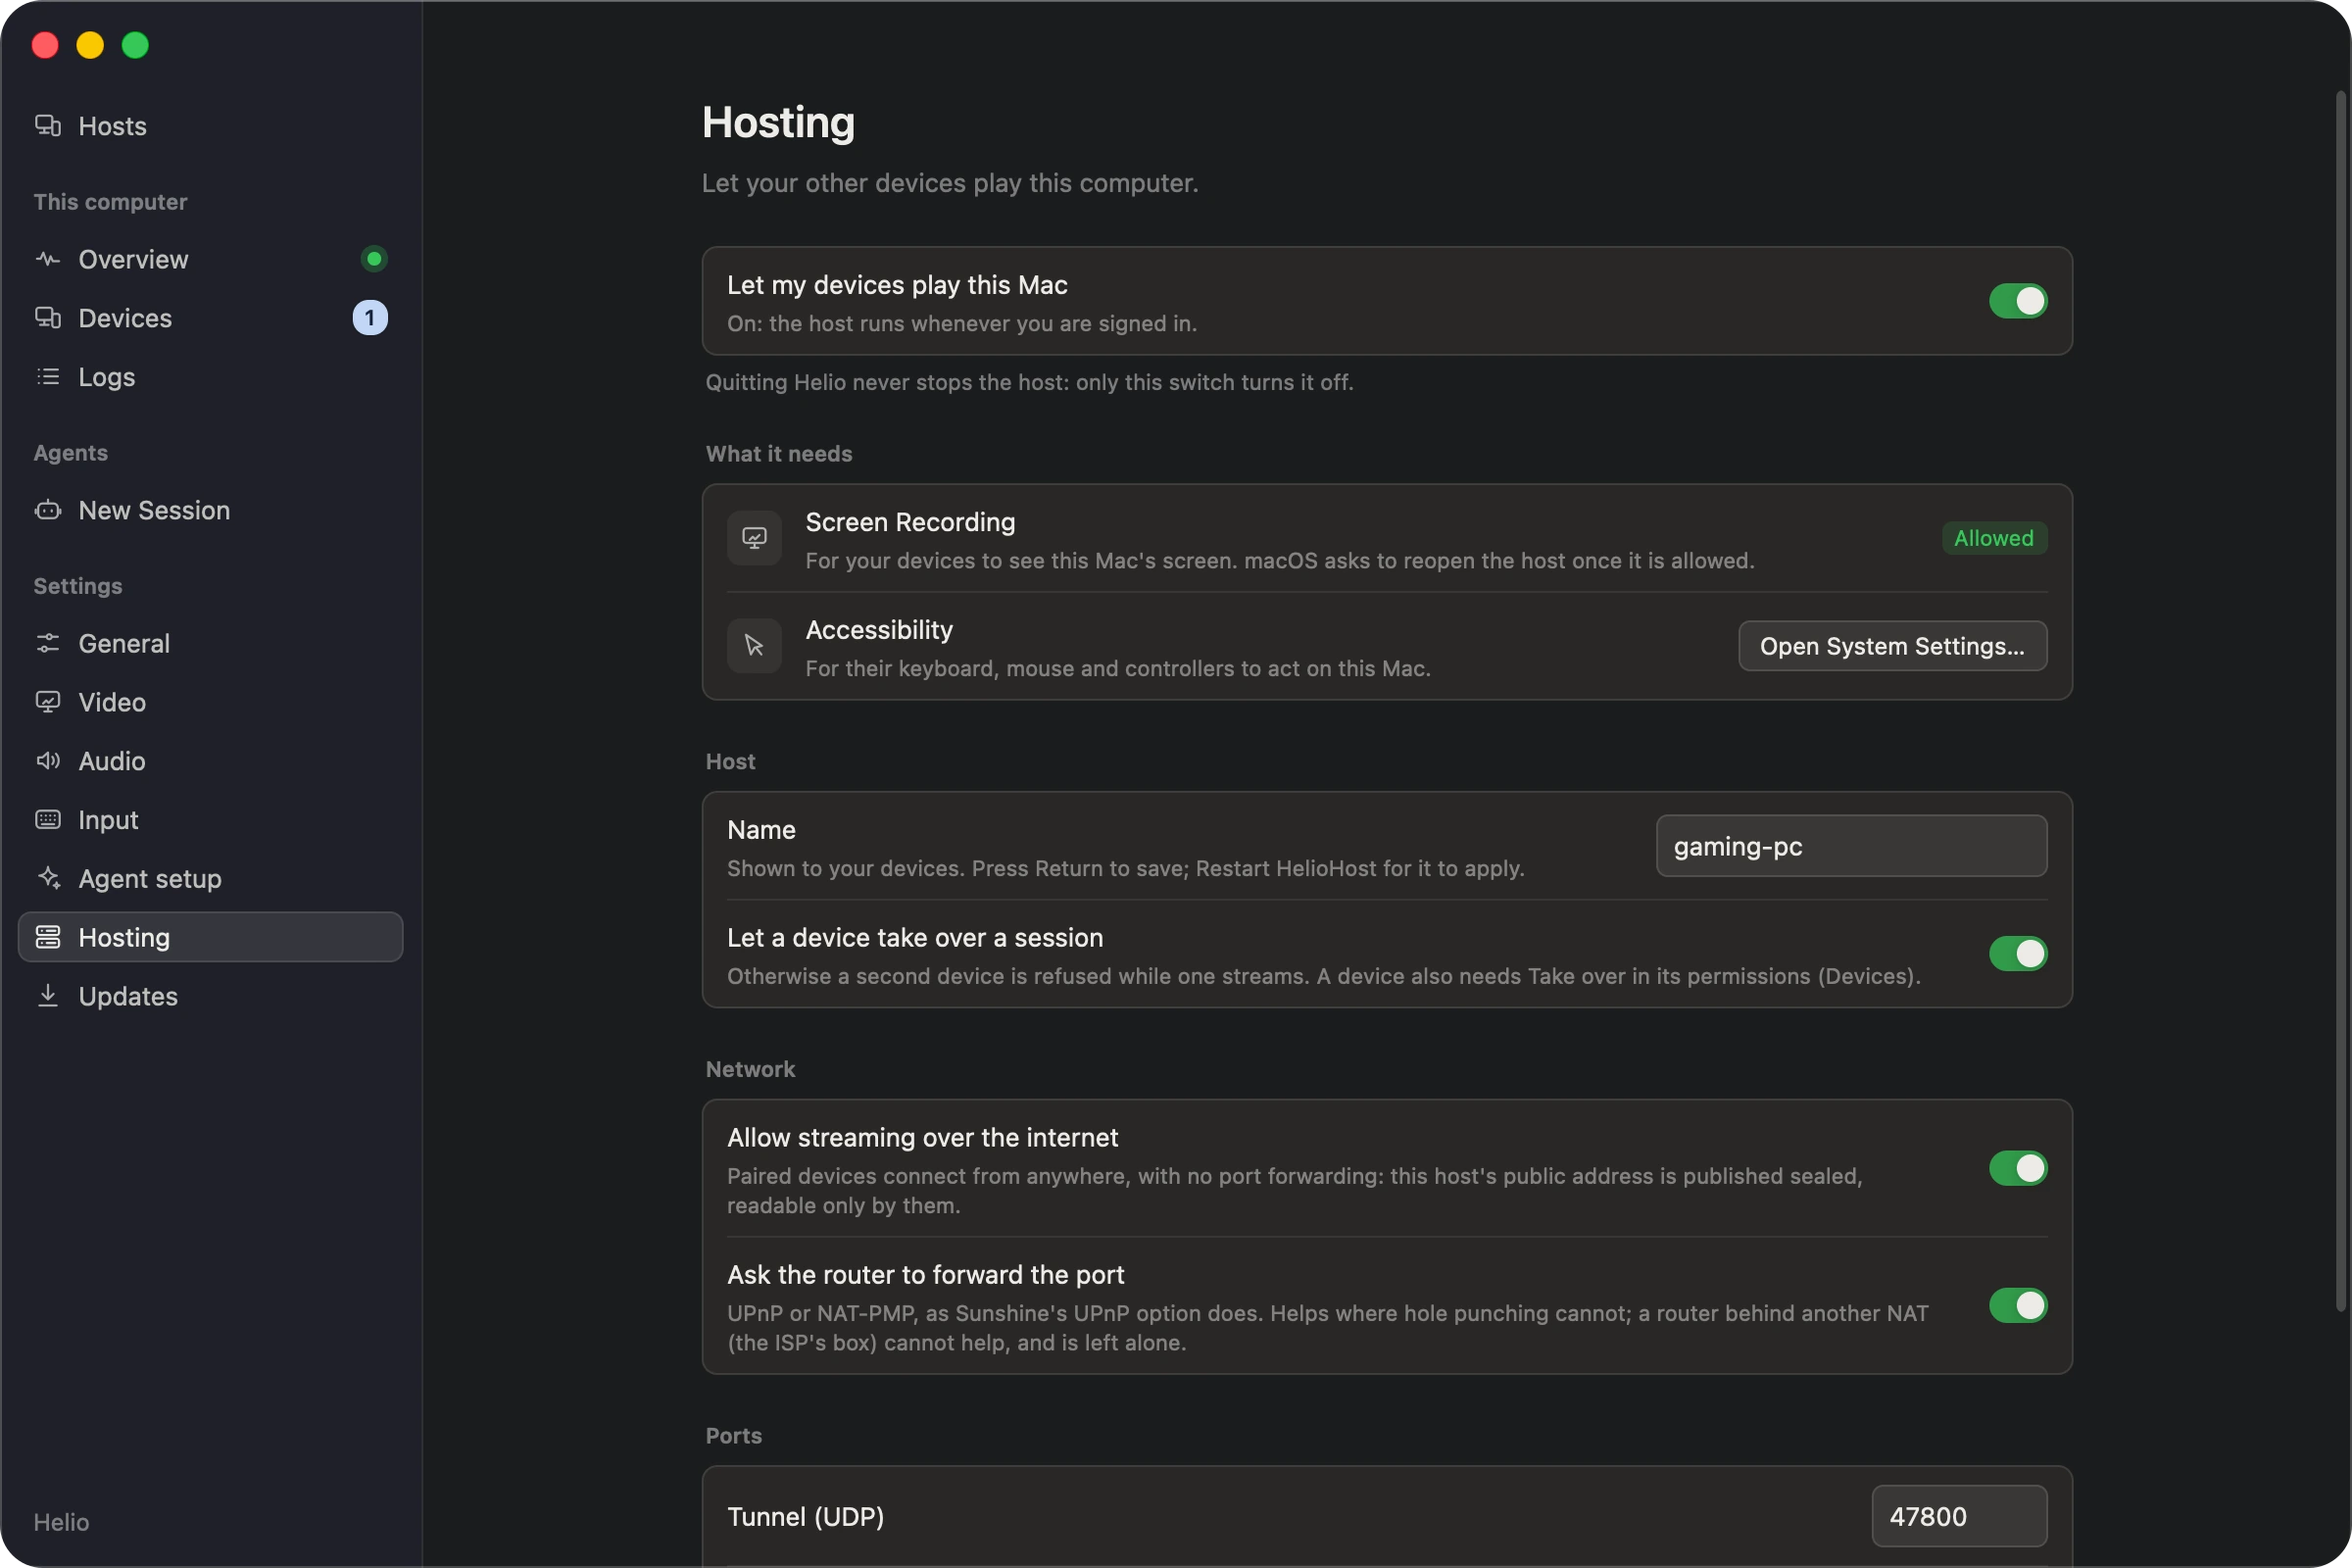
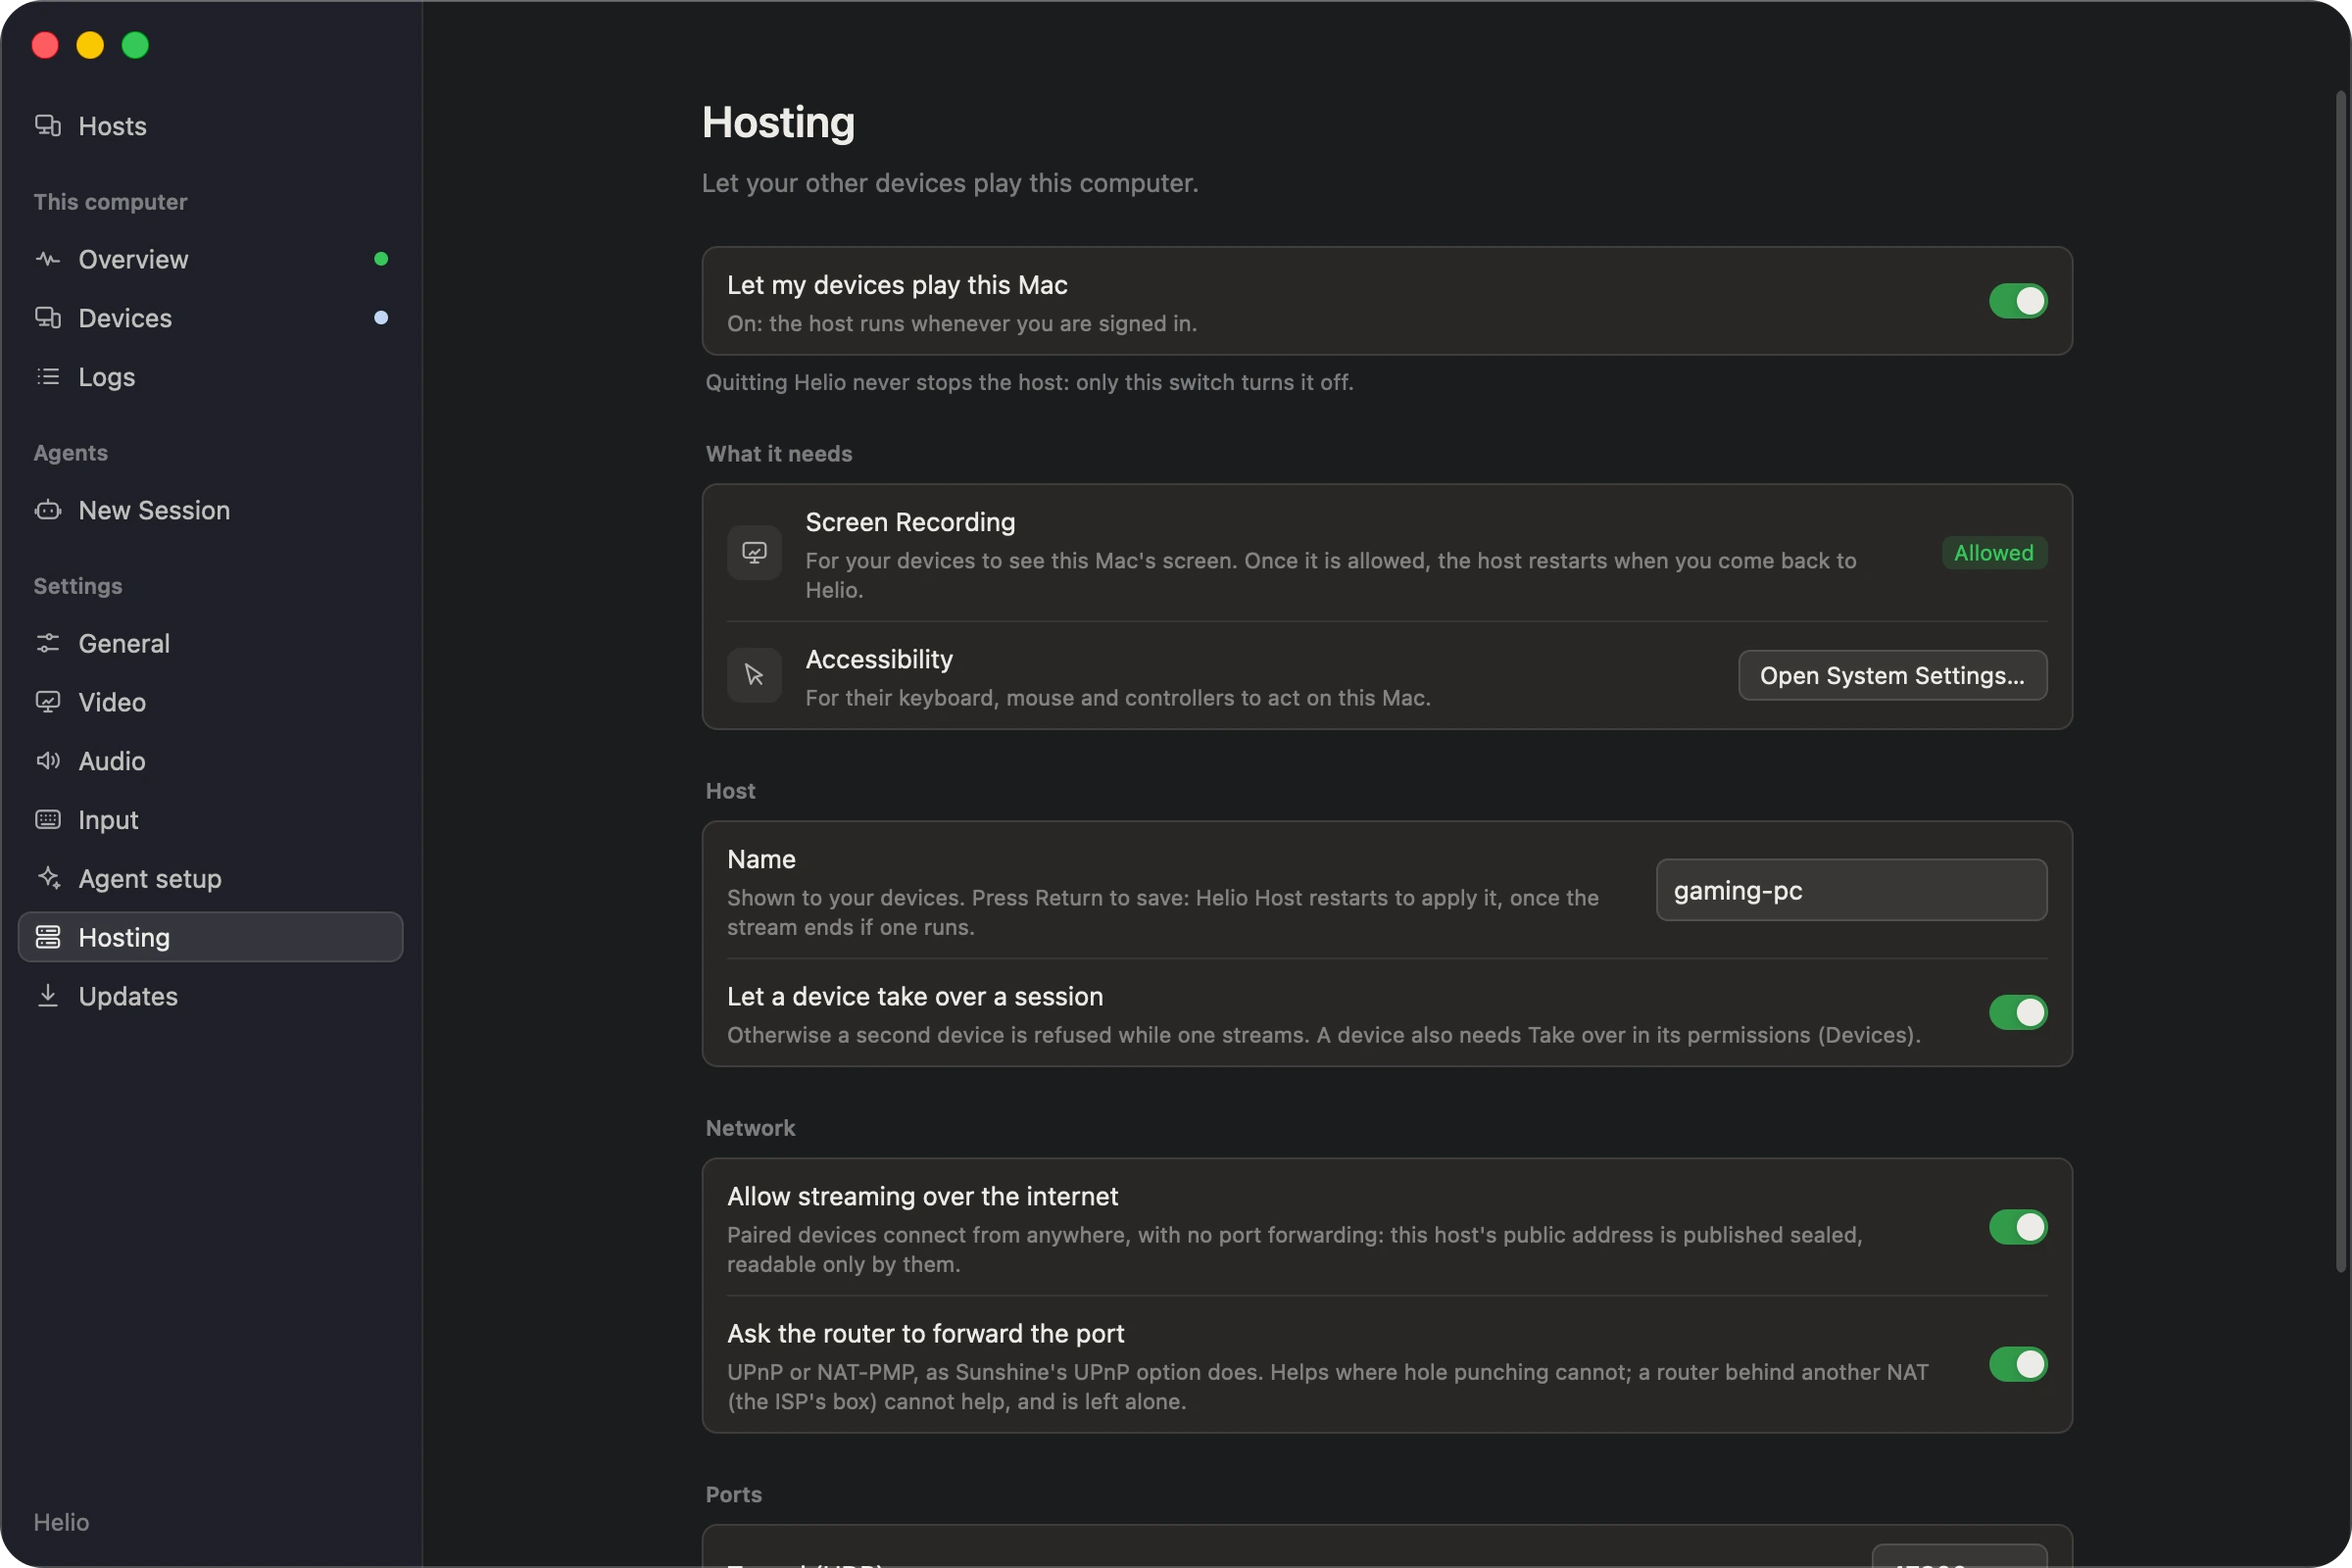
site: the window's pictures again, and Windows with acrylic
The window writes the parts of a line with commas, its sidebar's marks
are plain dots and its refresh arrow is new (branch ui-pass), so every
picture of it is taken again. The Windows hero is from a PC with a GPU
now, so its window has the acrylic the VM could not draw, over the
light Bloom; hero/windows/hero-display.rs makes the 2880x1800 desktop
it needs from SudoVDA, as a stream does, and capture-hero.sh says how.
The link preview is og-card.html again, in headless Helium. The video
settings shot came out identical and is unchanged; the stream video
and agent-screen.webp show no part of the window and were not taken
again.

Made from ui-pass's build, which is not on main yet: publish only once
it is.

Verified by looking at each picture at full size; three gallery shots
that caught other windows were thrown away and taken again with the
screen clear. The captures ran from throwaway data folders and HOME.

diff --git a/site/scripts/hero/windows/hero-display.rs b/site/scripts/hero/windows/hero-display.rs
@@ -1,0 +1,51 @@
+//! The Windows hero's screen (capture-hero.sh): a 2880x1800 virtual display
+//! as the whole desktop, the host's monitors off, as a stream has it
+//! (helio_display::windows::WindowsDisplay), until C:\pp\hero\done exists,
+//! at most 180 s; then the desktop as it was. Copy it into
+//! helio-display/examples/ and `cargo build --release -p helio-display
+//! --example hero-display` on the PC. It prints ACTIVE once the display is
+//! the desktop.
+#[cfg(windows)]
+fn main() {
+    use std::time::{Duration, Instant};
+
+    use helio_display::windows::WindowsDisplay;
+    use helio_display::{DisplayControl, DisplayMode};
+
+    let state = std::env::temp_dir().join("helio-hero-display-state.toml");
+    WindowsDisplay::restore_stale(&state);
+    let mode = DisplayMode {
+        width: 2880,
+        height: 1800,
+        refresh_mhz: 120_000,
+    };
+    // A display added right after another was removed can list no modes
+    // for a moment: put everything back and try again, a few times.
+    let mut display = WindowsDisplay::new(state.clone());
+    let mut tries = 0;
+    loop {
+        tries += 1;
+        let active = display.activate(mode);
+        println!("activate {tries}: {active:?}");
+        if active.is_ok() {
+            println!("ACTIVE");
+            break;
+        }
+        println!("restore: {:?}", display.restore());
+        if tries == 5 {
+            println!("GAVE UP");
+            return;
+        }
+        std::thread::sleep(Duration::from_secs(3));
+        display = WindowsDisplay::new(state.clone());
+    }
+    let done = std::path::Path::new(r"C:\pp\hero\done");
+    let start = Instant::now();
+    while !done.exists() && start.elapsed() < Duration::from_secs(180) {
+        std::thread::sleep(Duration::from_millis(250));
+    }
+    println!("restore: {:?}", display.restore());
+}
+
+#[cfg(not(windows))]
+fn main() {}
